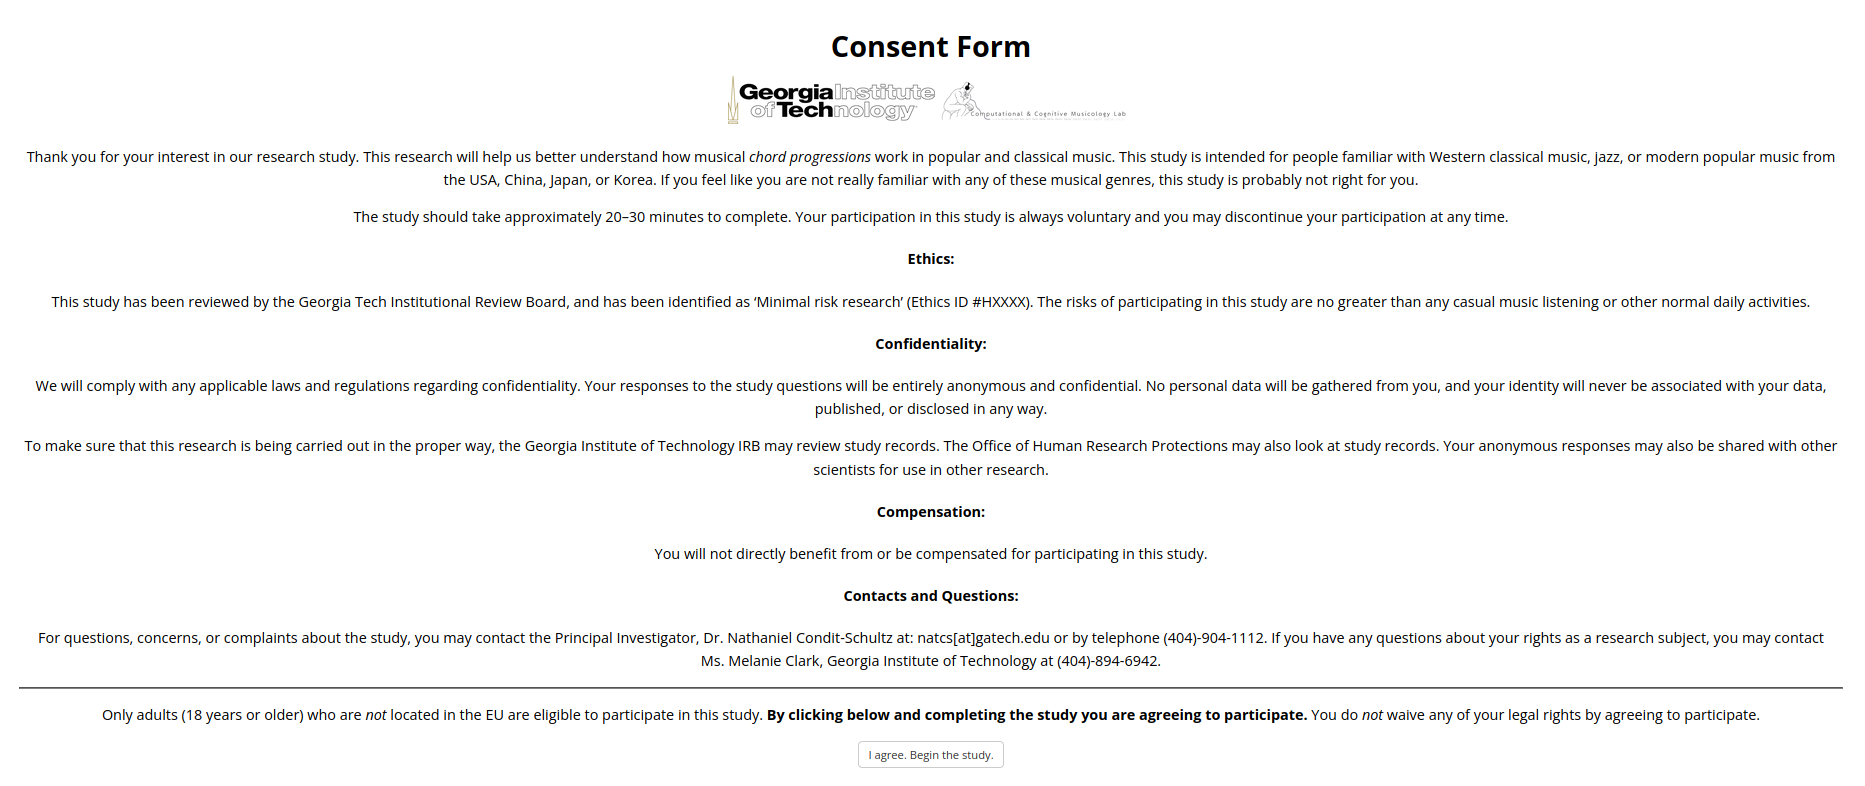
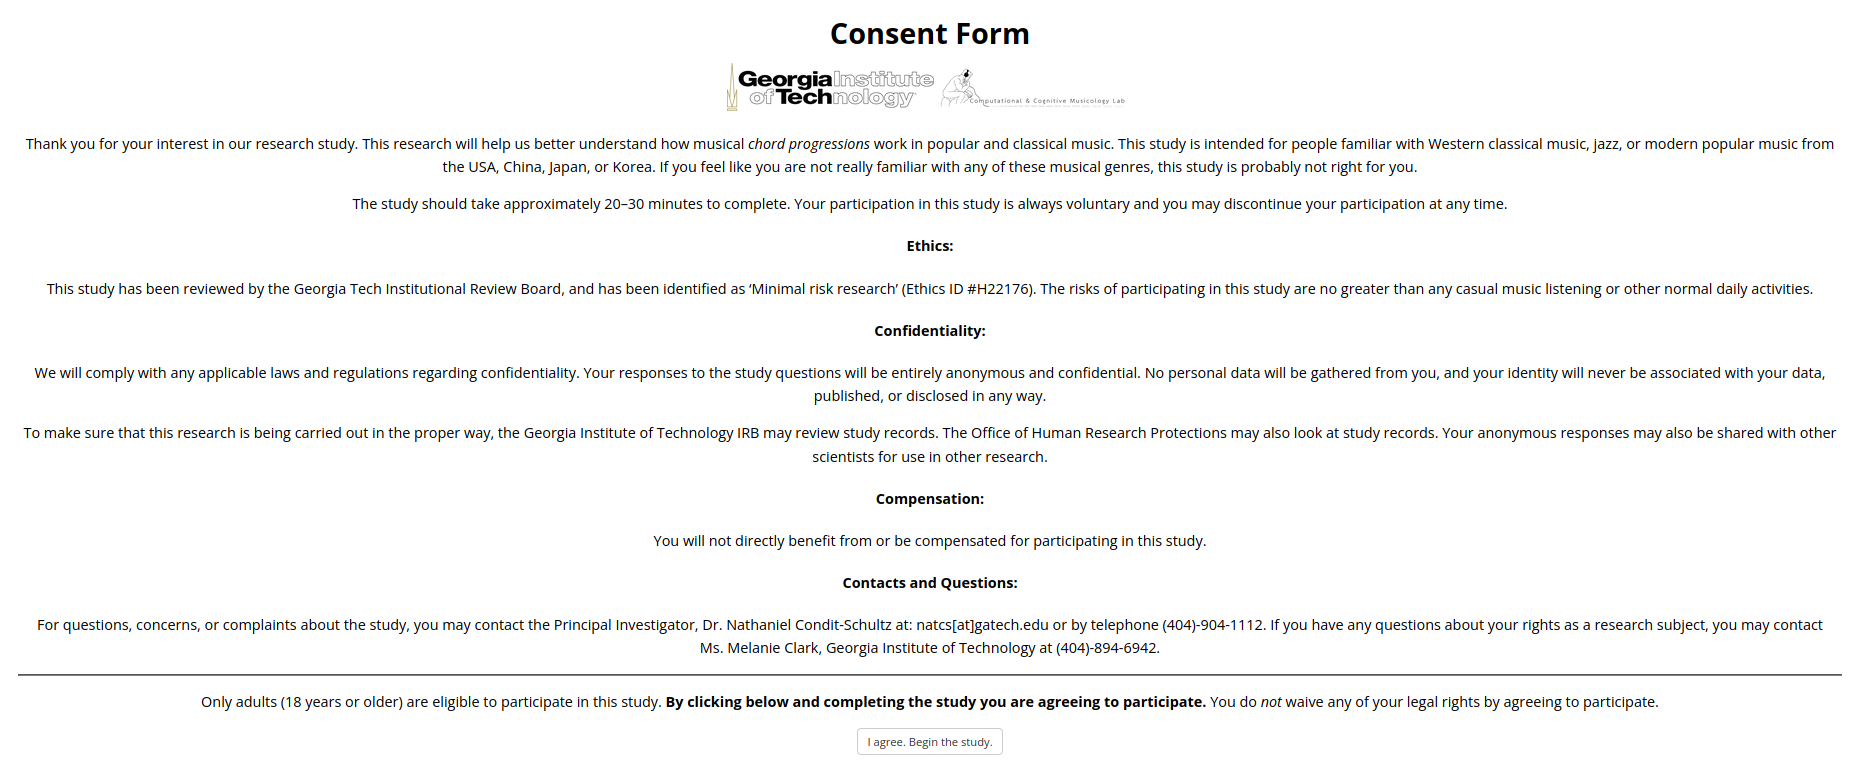
Updated IRB docs for second submission

diff --git a/ExperimentalInterface/interface.html b/ExperimentalInterface/interface.html
@@ -34,7 +34,7 @@
 
     var consent = {
       type: jsPsychHtmlButtonResponse,
-      stimulus:  '<h1 class="title">Consent Form</h1> </header> <p><img src="gatechlogo.png" height="60" /> <img src="LabLogo_BlackandWhite.png" height="60" /></p> <p>Thank you for your interest in our research study. This research will help us better understand how musical <em>chord progressions</em> work in popular and classical music. This study is intended for people familiar with Western classical music, jazz, or modern popular music from the USA, China, Japan, or Korea. If you feel like you are not really familiar with any of these musical genres, this study is probably not right for you.</p> <p>The study should take approximately 20–30 minutes to complete. Your participation in this study is always voluntary and you may discontinue your participation at any time.</p> <h4 id="ethics">Ethics:</h4> <p>This study has been reviewed by the Georgia Tech Institutional Review Board, and has been identified as ‘Minimal risk research’ (Ethics ID #HXXXX). The risks of participating in this study are no greater than any casual music listening or other normal daily activities.</p> <h4 id="confidentiality">Confidentiality:</h4> <p>We will comply with any applicable laws and regulations regarding confidentiality. Your responses to the study questions will be entirely anonymous and confidential. No personal data will be gathered from you, and your identity will never be associated with your data, published, or disclosed in any way.</p> <p>To make sure that this research is being carried out in the proper way, the Georgia Institute of Technology IRB may review study records. The Office of Human Research Protections may also look at study records. Your anonymous responses may also be shared with other scientists for use in other research.</p> <h4 id="compensation">Compensation:</h4> <p>You will not directly benefit from or be compensated for participating in this study.</p> <h4 id="contacts-and-questions">Contacts and Questions:</h4> <p>For questions, concerns, or complaints about the study, you may contact the Principal Investigator, Dr. Nathaniel Condit-Schultz at: natcs[at]gatech.edu or by telephone (404)-904-1112. If you have any questions about your rights as a research subject, you may contact Ms. Melanie Clark, Georgia Institute of Technology at (404)-894-6942.</p> <hr /> <p>Only adults (18 years or older) who are <em>not</em> located in the EU are eligible to participate in this study. <strong>By clicking below and completing the study you are agreeing to participate.</strong> You do <em>not</em> waive any of your legal rights by agreeing to participate.</p>',
+      stimulus:  '<h1 class="title">Consent Form</h1> </header> <p><img src="gatechlogo.png" height="60" /> <img src="LabLogo_BlackandWhite.png" height="60" /></p> <p>Thank you for your interest in our research study. This research will help us better understand how musical <em>chord progressions</em> work in popular and classical music. This study is intended for people familiar with Western classical music, jazz, or modern popular music from the USA, China, Japan, or Korea. If you feel like you are not really familiar with any of these musical genres, this study is probably not right for you.</p> <p>The study should take approximately 20–30 minutes to complete. Your participation in this study is always voluntary and you may discontinue your participation at any time.</p> <h4 id="ethics">Ethics:</h4> <p>This study has been reviewed by the Georgia Tech Institutional Review Board, and has been identified as ‘Minimal risk research’ (Ethics ID #H22176). The risks of participating in this study are no greater than any casual music listening or other normal daily activities.</p> <h4 id="confidentiality">Confidentiality:</h4> <p>We will comply with any applicable laws and regulations regarding confidentiality. Your responses to the study questions will be entirely anonymous and confidential. No personal data will be gathered from you, and your identity will never be associated with your data, published, or disclosed in any way.</p> <p>To make sure that this research is being carried out in the proper way, the Georgia Institute of Technology IRB may review study records. The Office of Human Research Protections may also look at study records. Your anonymous responses may also be shared with other scientists for use in other research.</p> <h4 id="compensation">Compensation:</h4> <p>You will not directly benefit from or be compensated for participating in this study.</p> <h4 id="contacts-and-questions">Contacts and Questions:</h4> <p>For questions, concerns, or complaints about the study, you may contact the Principal Investigator, Dr. Nathaniel Condit-Schultz at: natcs[at]gatech.edu or by telephone (404)-904-1112. If you have any questions about your rights as a research subject, you may contact Ms. Melanie Clark, Georgia Institute of Technology at (404)-894-6942.</p> <hr /> <p>Only adults (18 years or older) are eligible to participate in this study. <strong>By clicking below and completing the study you are agreeing to participate.</strong> You do <em>not</em> waive any of your legal rights by agreeing to participate.</p>',
       choices: ["I agree. Begin the study."]
     };
 

diff --git a/IRB/Recruitment.md b/IRB/Recruitment.md
@@ -1,7 +1,7 @@
 Hi `___`
 
 We are looking for volunteers to participate in an online experiment we are conducting concerning chord progressions in popular music.
-This study is open to any adult (18 years or older) who is *not* currently located in the European Union.
+This study is open to any adult (18 years or older).
 We'd love it if you would be willing to help us out!
 The study should only take about 20--30 minutes of your time.
 Unfortunately, there would be no compensation to you, other than the good feeling of helping science!

diff --git a/IRB/Exempt_Consent.md b/IRB/Exempt_Consent.md
@@ -43,7 +43,7 @@ If you have any questions about your rights as a research subject, you may conta
 
 ----
 
-Only adults (18 years or older) who are *not* located in the EU are eligible to participate in this study.
+Only adults (18 years or older) are eligible to participate in this study.
 **By clicking below and completing the study you are agreeing to participate.**
 You do *not* waive any of your legal rights by agreeing to participate. 
 
